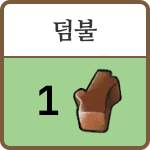
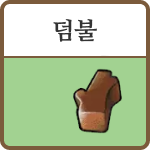
자원

Changed region(s): [[0.24, 0.56, 0.4, 0.7733]]

diff --git a/agricola/src/views/boards/ActionBoard.js b/agricola/src/views/boards/ActionBoard.js
@@ -5,8 +5,14 @@ import ActionCard from '../cards/ActionCard';
 import WebSocketClient from '../../components/WebSocketClient'; // WebSocketClient 불러오기
 
 export default function ActionBoard({ currentPlayer }) {
+
+  // 0: 사람없음, 1~4: 플레이어 -> 14개 카드
   const initialClickedActionCards = [0, 0, 0, 0, 0, 0, 0, 0, 0, 0, 0, 0, 0, 0];
   const [clickedActionCards, setClickedActionCards] = useState(initialClickedActionCards);
+  
+  // 자원누적이 필요한 카드: 1,2,4,6,11,12,13 번
+  const initialResourceActionCards = [,2,1,,1,,1,,,,,1,1,1,,];
+  const [resourceActionCards, setResourceActionCards] = useState(initialResourceActionCards);
 
   const sendMessageRef = useRef(null);
 
@@ -42,7 +48,6 @@ export default function ActionBoard({ currentPlayer }) {
       alignItems="center"
       gap={4}
       p={2}
-      sx={{ border: '2px solid grey' }}
     >
       <WebSocketClient
         roomId="1"
@@ -63,6 +68,7 @@ export default function ActionBoard({ currentPlayer }) {
               playerNumber={playerNumber}
               onClick={() => handleCardClick(index + 1)}
               sendMessage={sendMessageRef.current}
+              resource={resourceActionCards[index+1]}
             />
           </Grid>
         ))}

diff --git a/agricola/src/views/cards/ActionCard.js b/agricola/src/views/cards/ActionCard.js
@@ -2,10 +2,12 @@ import React, { useState } from 'react';
 import Card from '@mui/material/Card';
 import CardMedia from '@mui/material/CardMedia';
 import CardActionArea from '@mui/material/CardActionArea';
+import Typography from '@mui/material/Typography'; // Typography import 추가
 import Tooltip from '@mui/material/Tooltip';
 import { actionCardDetails } from '../../components/details/ActionCardDetails';
+import Resource from '../boards/Resource';
 
-export default function ActionCard({ cardNumber, playerNumber, onClick, sendMessage }) {
+export default function ActionCard({ cardNumber, resource, playerNumber, onClick, sendMessage }) {
   const [isClicked, setIsClicked] = useState(playerNumber !== 0);
 
   const handleClick = () => {
@@ -65,6 +67,13 @@ export default function ActionCard({ cardNumber, playerNumber, onClick, sendMess
                   }}
                 />
               )}
+              <Typography 
+                variant="h4" 
+                color="text.primary" 
+                style={{ position: 'absolute', bottom: 18, right: 75, fontWeight: 'bold' }}
+              >
+                {resource}
+              </Typography>
             </div>
           </CardActionArea>
         </Card>

diff --git a/agricola/src/views/boards/RoundBoard.js b/agricola/src/views/boards/RoundBoard.js
@@ -1,4 +1,4 @@
-import React, { useState} from 'react';
+import React, { useState } from 'react';
 
 // MUI 불러오기
 import Box from '@mui/material/Box';
@@ -22,13 +22,12 @@ const RoundBoard = () => {
     <Box
       height={420}
       width={650}
-      mx={2}
+      mx={1}
       my={2}
       display="flex"
       justifyContent="center"
       gap={4}
       p={2}
-      sx={{ border: '2px solid grey' }}
     >
       <Grid container direction="column" justifyContent="center" alignItems="flex-start" spacing={{ xs: 2, md: 2 }} columns={{ xs: 4, sm: 8, md: 8 }}>
         {Array.from(Array(4)).map((_, index) => (

diff --git a/agricola/src/views/cards/RoundCard.js b/agricola/src/views/cards/RoundCard.js
@@ -74,8 +74,8 @@ export default function RoundCard({ index, cardNumber, playerNumber, onClick }) 
           transform: isBack ? 'rotateY(180deg)' : 'rotateY(0deg)',
           transition: 'transform 0.5s',
         }}
-        onMouseEnter={handleCardHover}
-        onMouseLeave={handleCardLeave}
+        onMouseEnter={ isBack ? handleCardHover : null }
+        onMouseLeave={ isBack ? handleCardLeave : null }
         >
         <CardActionArea onClick={handleClick}>
             <CardMedia
